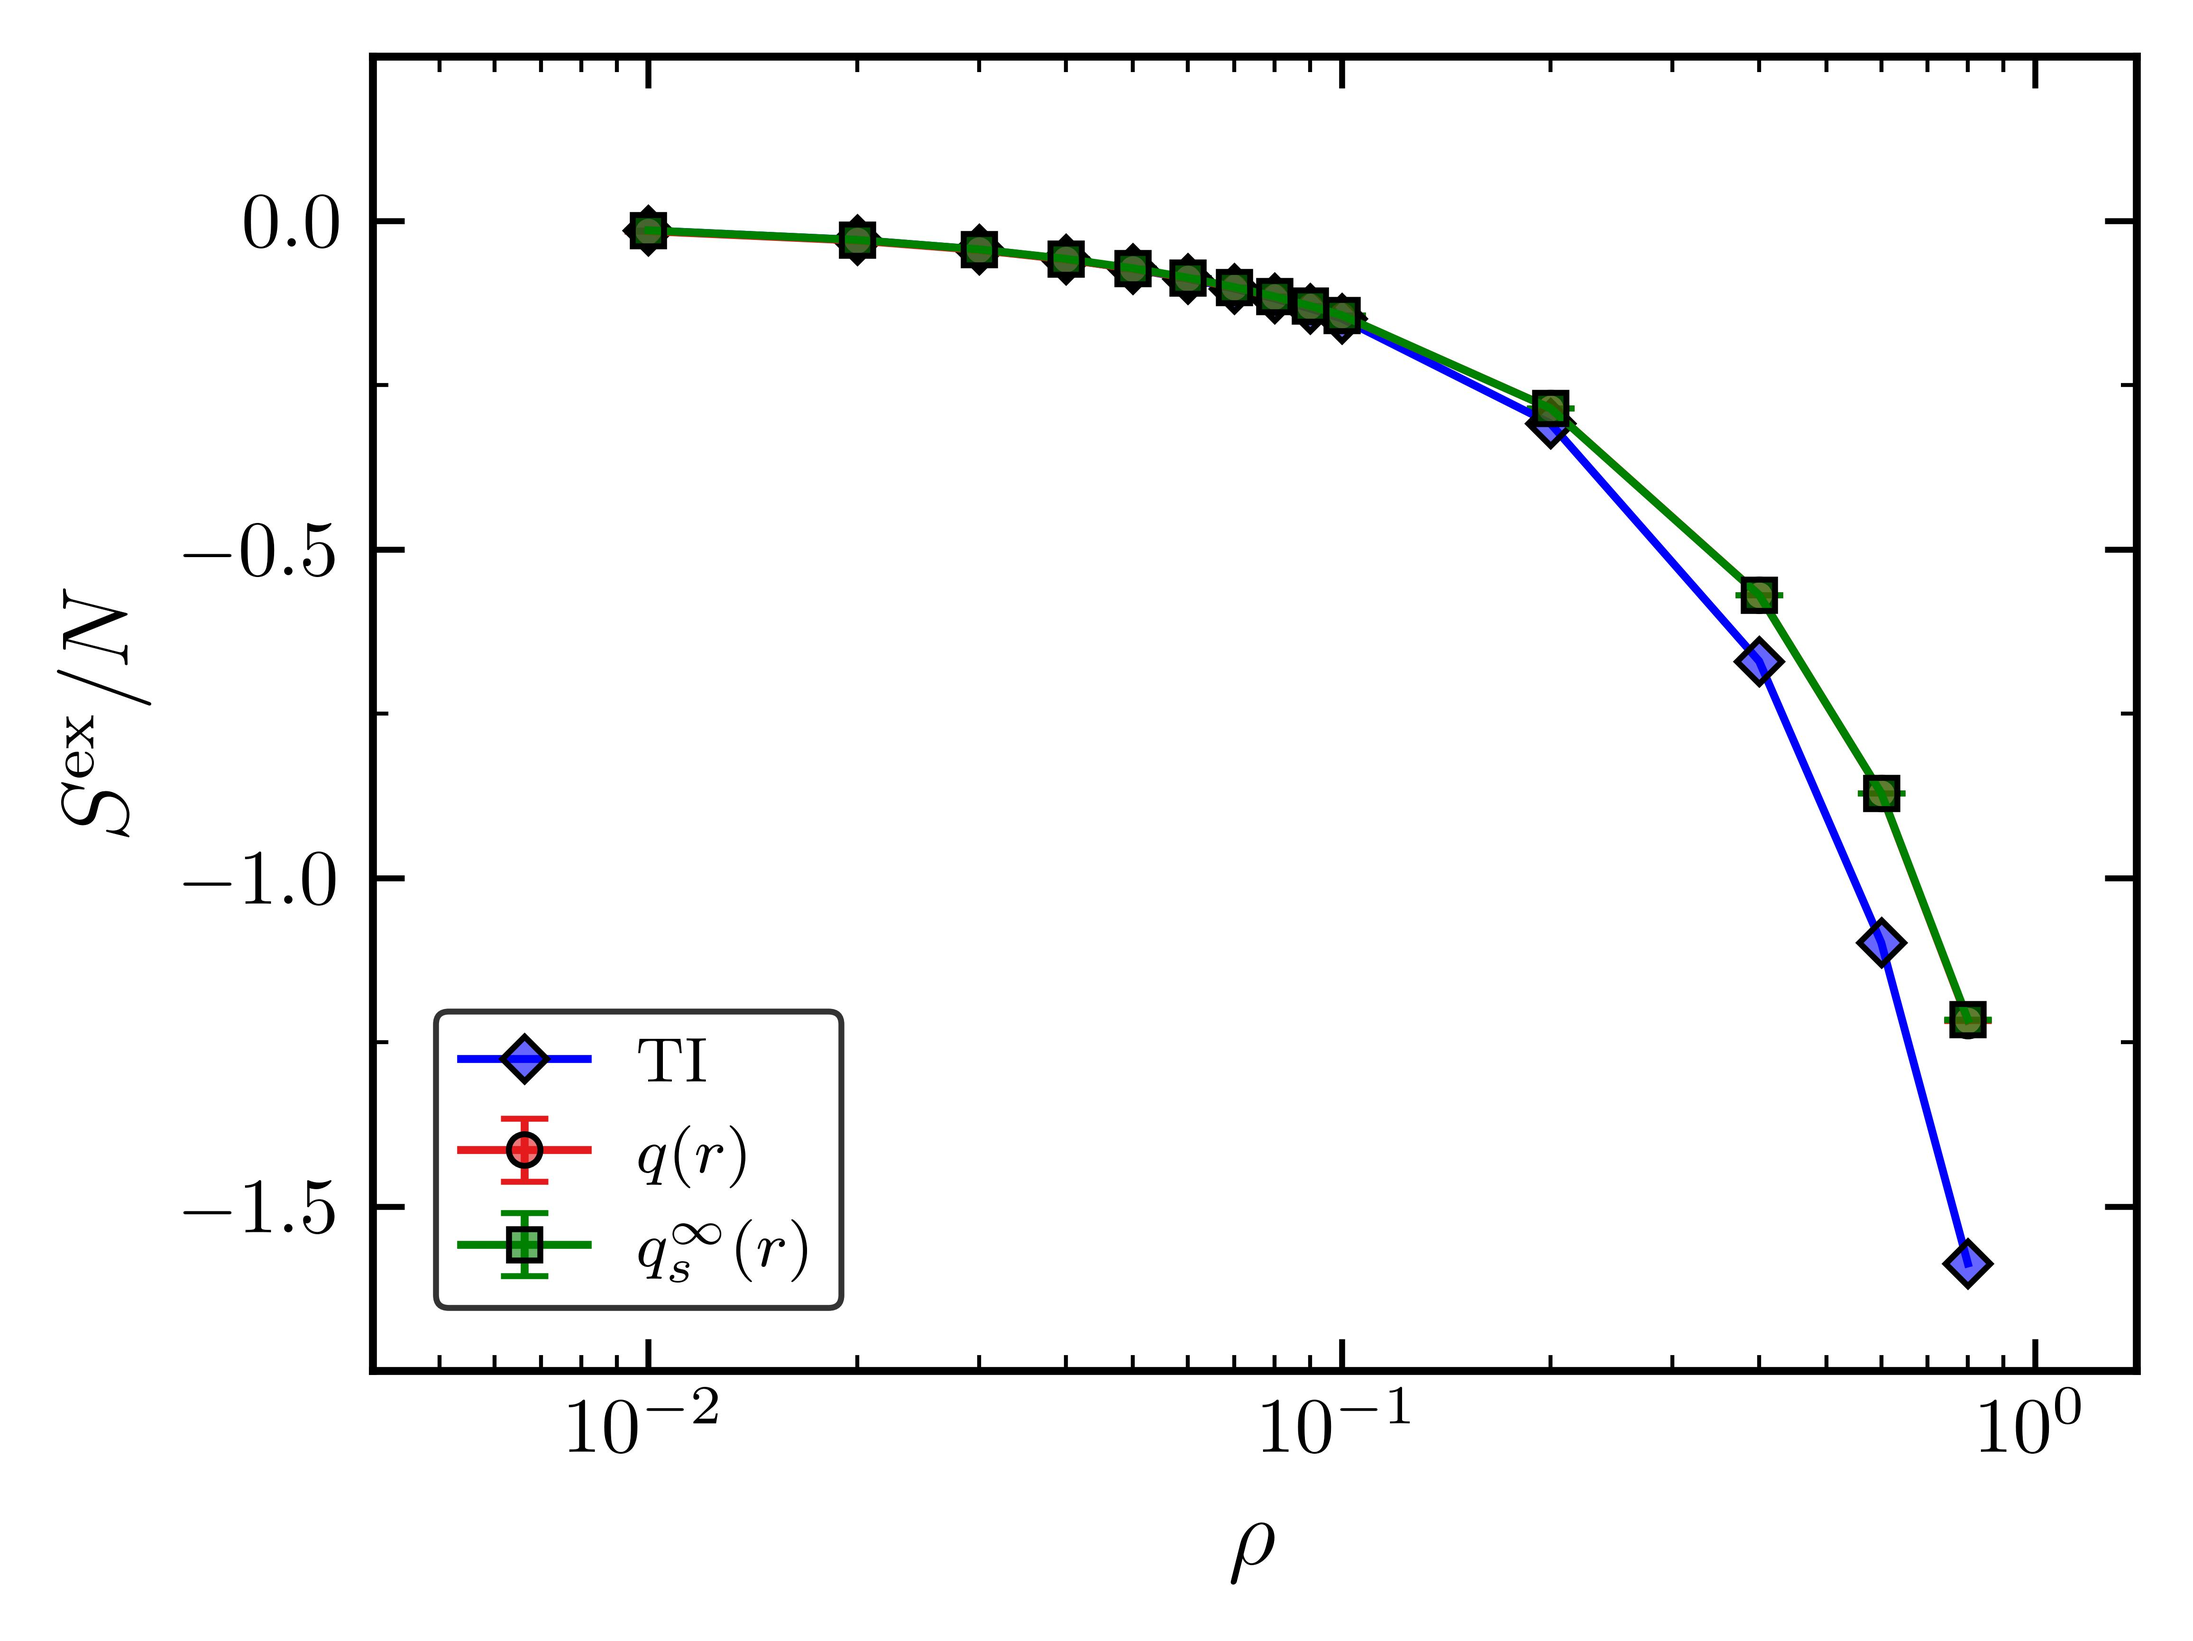
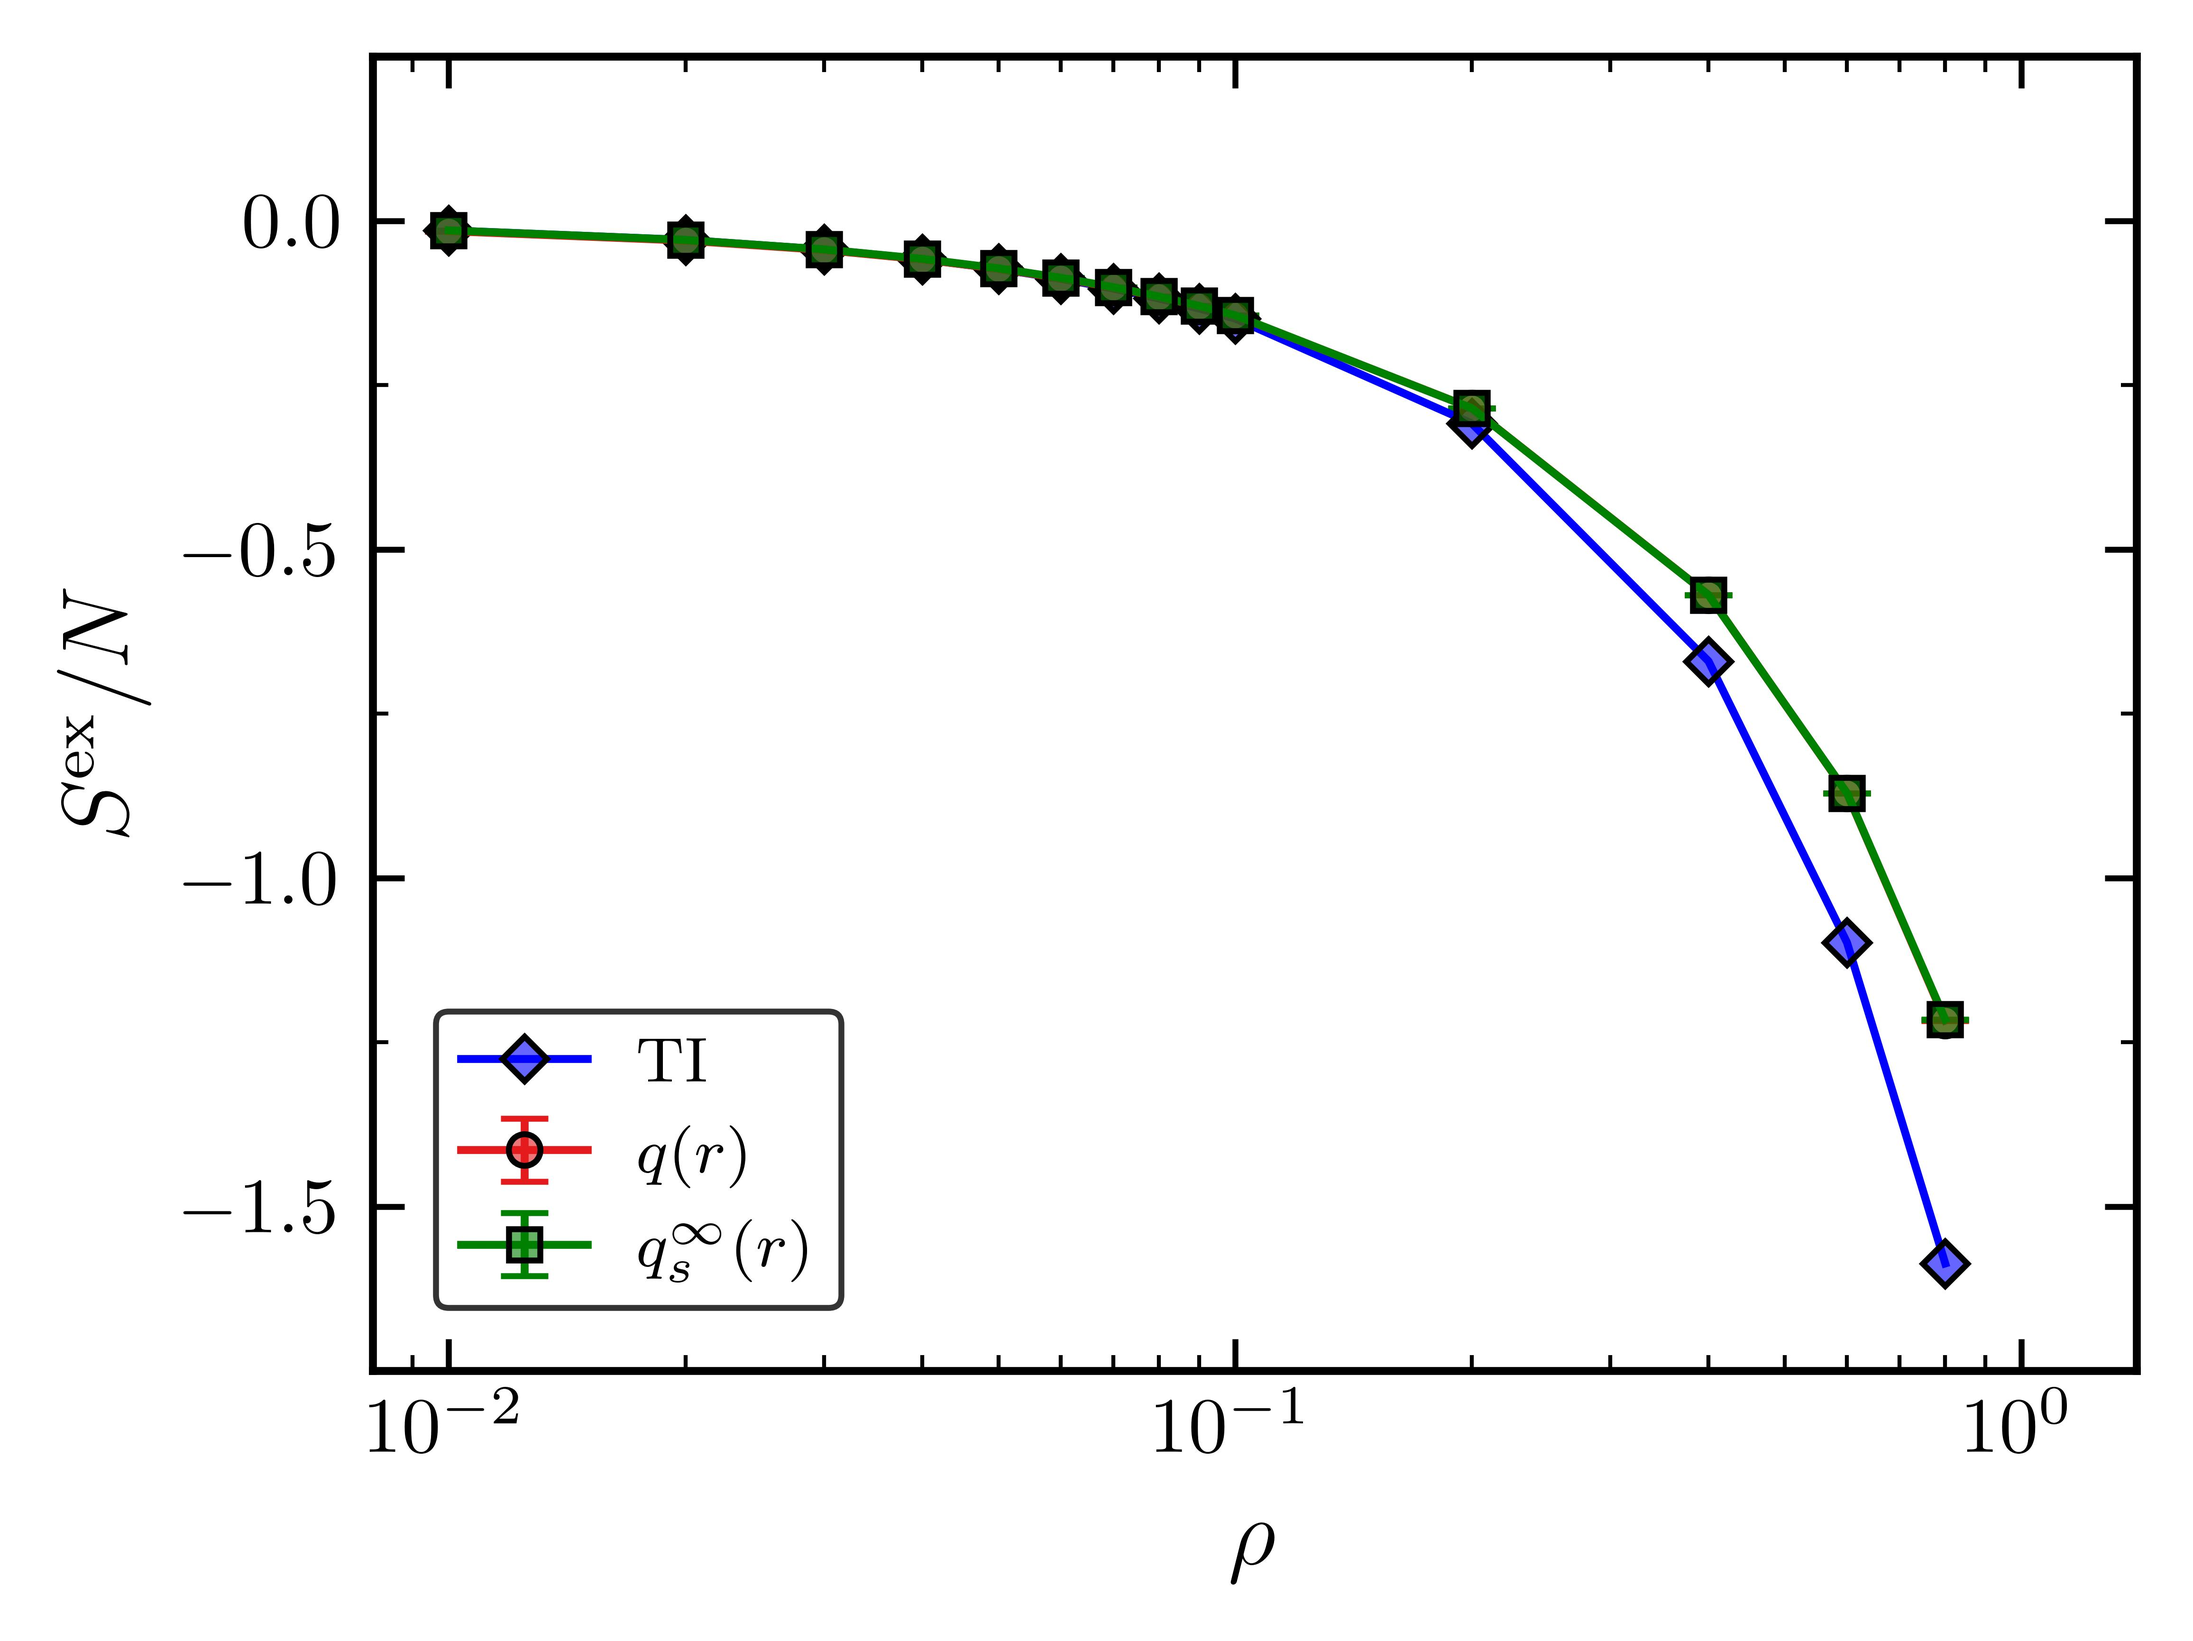
update-08/11/2024-small mistake corrected in Post processing

diff --git a/PLOT_SCRIPTS/error_APE.py b/PLOT_SCRIPTS/error_APE.py
@@ -114,7 +114,7 @@ with plt.style.context([ 'ieee']):
     plt.ylabel(r'$| \frac{ S^{\mathrm{ex}}_{\mathrm{TI}} - S^{\mathrm{ex}} }{ S^{\mathrm{ex}}_{\mathrm{TI}} } | \times 100\,\% $',fontsize=label_fontsize)
     
     plt.ylim(-4, 39)
-    # plt.xlim(-0.1, 1.1)
+    plt.xlim(0.008, 1.4)
     
     ax.set_xscale('log') 
     

diff --git a/PLOT_SCRIPTS/Excess_entropy.py b/PLOT_SCRIPTS/Excess_entropy.py
@@ -125,7 +125,7 @@ with plt.style.context([ 'ieee']):
     plt.ylabel(r'$S^{\mathrm{ex}}/N$',fontsize=label_fontsize)
     
     plt.ylim(-1.75, 0.25)
-    plt.xlim(0.004, 1.4)
+    plt.xlim(0.008, 1.4)
     
     ax.set_xscale('log') 
     
